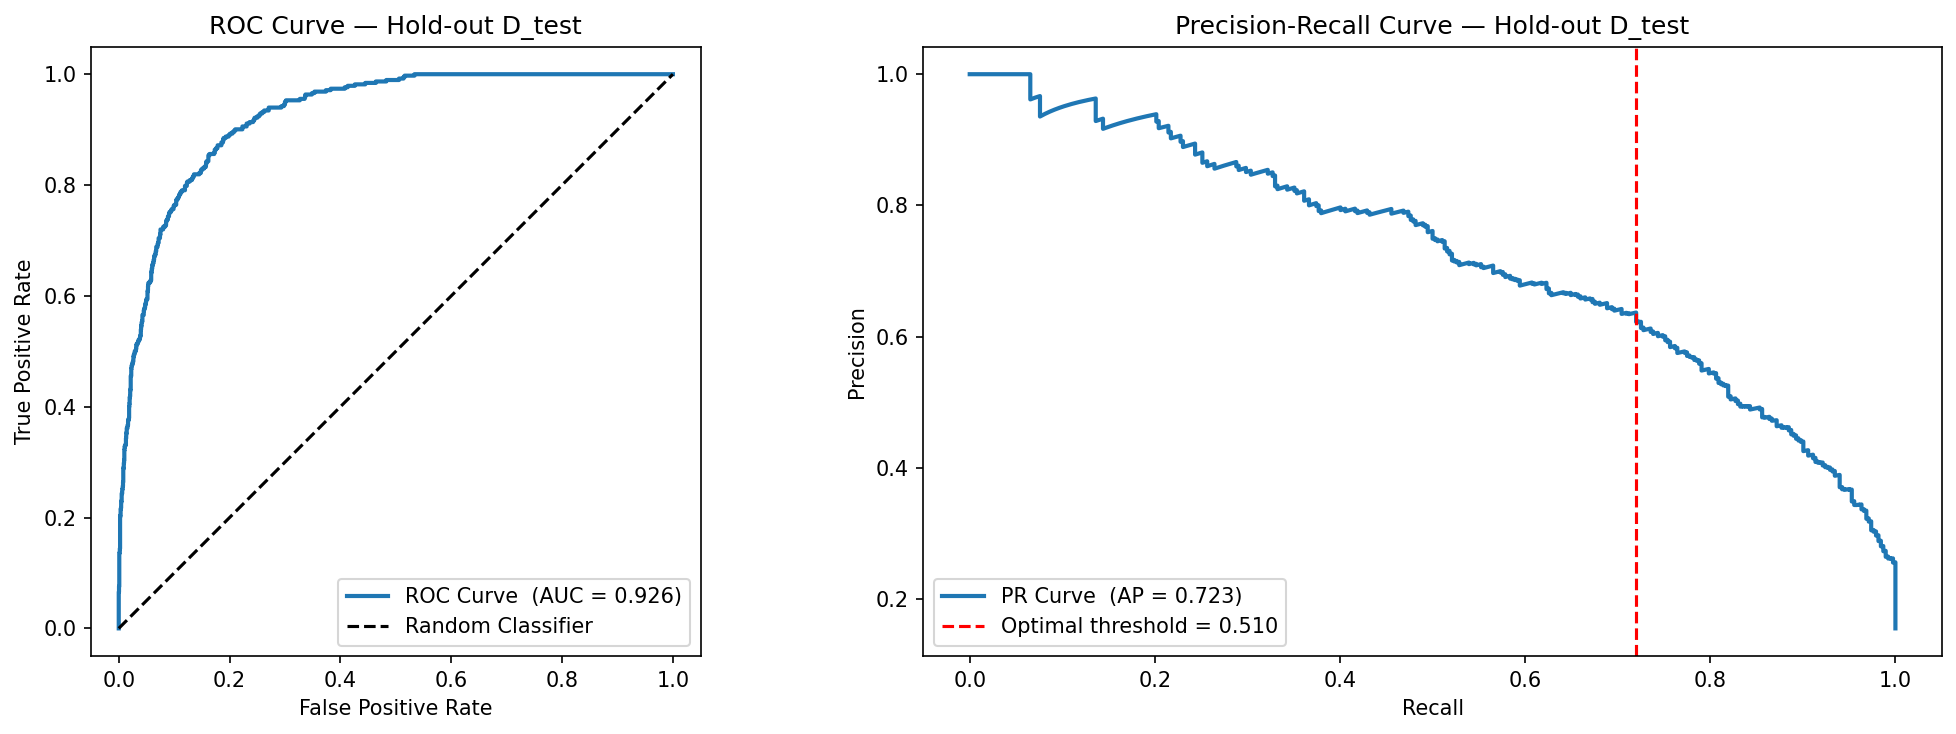
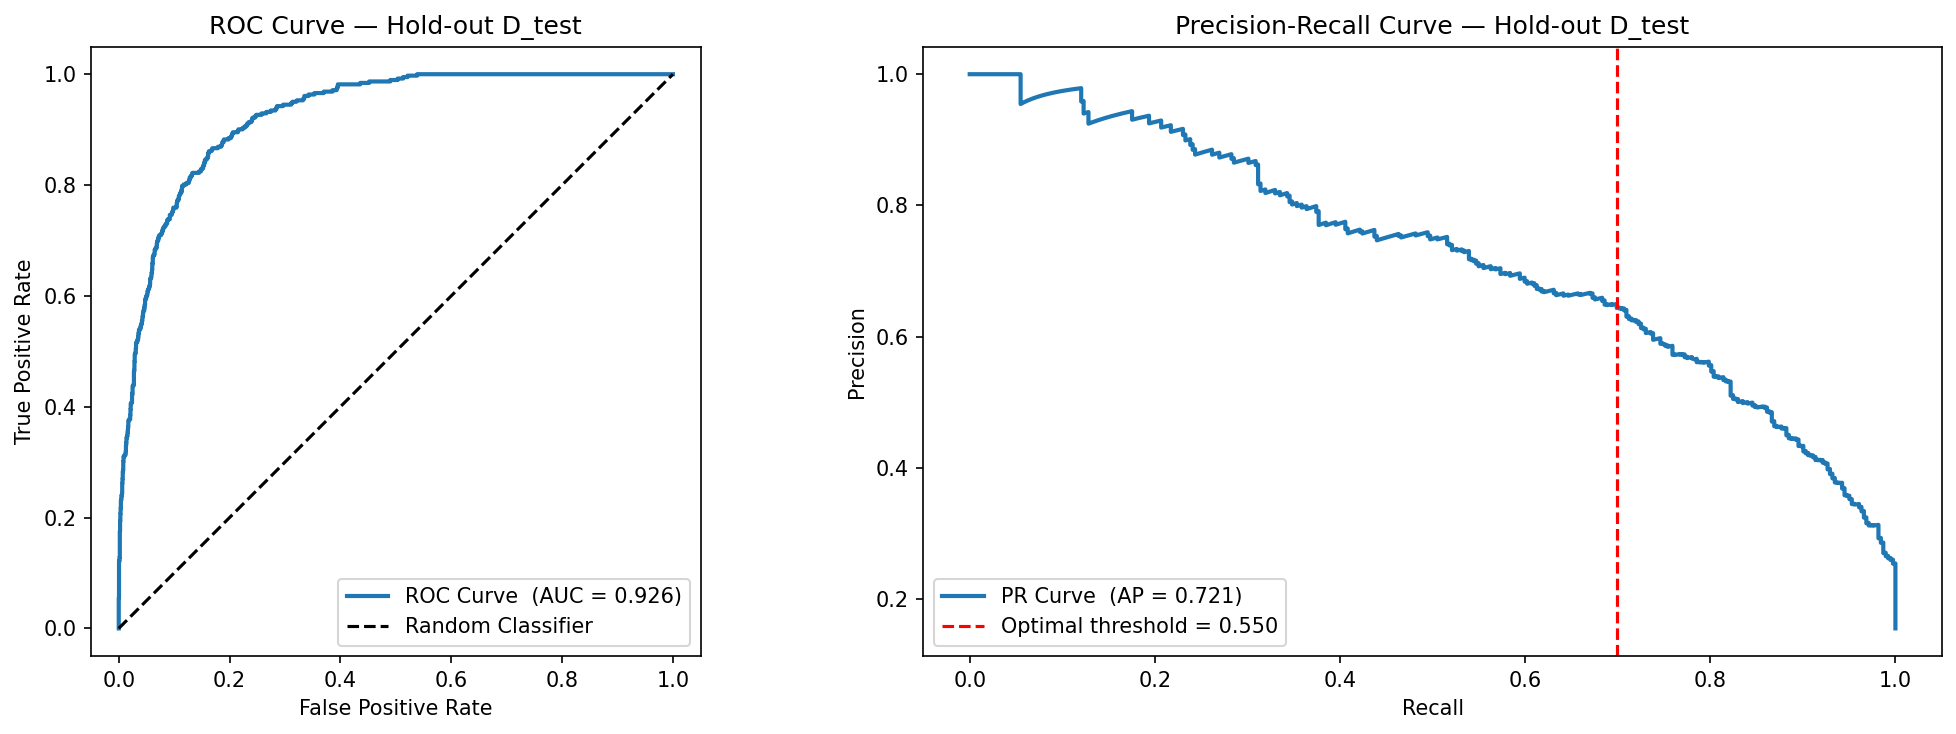
docs: sync README, CHANGELOG, and LaTeX with all post-audit changes
README: add figures/ to repo structure; update NB3 description and run table to mention LIME
CHANGELOG: add six new entries (14-19) covering figure generation, CV error bars, SHAP fix, LIME addition, .gitignore cleanup, and LIME leakage fix
LaTeX: add error bars note to fig_04 caption; add LIME paragraph to Model Explainability; mention LIME in abstract and Conclusions; add Ribeiro 2016 citation to refs.bib

diff --git a/CHANGELOG_AND_REFACTORING_REPORT.md b/CHANGELOG_AND_REFACTORING_REPORT.md
@@ -30,7 +30,7 @@ Data-Mining-ML-project/
 ├── jupyter/
 │   ├── 1_Exploratory_Data_Analysis.ipynb          # EDA + feature selection analysis
 │   ├── 2_Nested_CV_and_Strict_Pipelines.ipynb     # Model training, tuning, model persistence
-│   ├── 3_Evaluation_Ablation_and_XAI.ipynb        # Evaluation, ablation, ROC/PR, SHAP
+│   ├── 3_Evaluation_Ablation_and_XAI.ipynb        # Evaluation, ablation, ROC/PR, SHAP, LIME
 │   ├── 4_Class_Balancing_Experiments.ipynb        # SMOTE methodology experiments
 │   └── utils/
 │       └── lof_sampler.py                         # Shared LOF_Sampler class (NEW)
@@ -38,6 +38,9 @@ Data-Mining-ML-project/
 ├── models/
 │   ├── final_best_pipeline.pkl                    # Serialised champion pipeline (UPDATED)
 │   └── model_metadata.json                        # Champion model metadata (UPDATED)
+│
+├── figures/
+│   └── fig_01 … fig_08.png                        # Pre-generated report figures (150 dpi) (NEW)
 │
 └── 2_locked_test_data/
     ├── X_test_locked.csv                          # Locked hold-out features (UPDATED)
@@ -380,20 +383,22 @@ The original README contained a single-line description. It was replaced with a 
 ### `3_Evaluation_Ablation_and_XAI.ipynb`
 | Cell | Type | Purpose |
 |---|---|---|
-| 0 | Markdown | Objectives (updated to include both ablations and ROC/PR) |
+| 0 | Markdown | Objectives |
 | 1 | Code | Data load, D_train reconstruct, locked test load, LOF utility, model load |
 | 2 | Markdown | Ablation Section 1.1: LOF |
 | 3 | Code | LOF ablation — compare champion vs same pipeline without LOF |
-| 4 | Markdown | Ablation Section 1.2: Region *(NEW)* |
-| 5 | Code | Region ablation — compare 24-feature vs 25-feature pipeline *(NEW)* |
+| 4 | Markdown | Ablation Section 1.2: Region |
+| 5 | Code | Region ablation — compare 24-feature vs 25-feature pipeline |
 | 6 | Markdown | Final Test Set Evaluation |
 | 7 | Code | Unseal D_test, `champion_pipeline.predict`, confusion matrix, classification report |
-| 8 | Markdown | ROC / PR / Threshold intro *(NEW)* |
-| 9 | Code | ROC curve, PR curve, optimal threshold sweep + side-by-side plot *(NEW)* |
+| 8 | Markdown | ROC / PR / Threshold intro |
+| 9 | Code | ROC curve, PR curve, optimal threshold sweep + side-by-side plot |
 | 10 | Markdown | SHAP explanation |
 | 11 | Code | SHAP global: `summary_plot` (feature importance across D_test) |
-| 12 | Code | SHAP local: `waterfall` plots for FP and FN instances |
-| 13 | Markdown | Summary and Conclusions *(NEW)* |
+| 12 | Code | SHAP local: `waterfall` plots for TP, FP and FN instances |
+| 13 | Markdown | LIME intro |
+| 14 | Code | LIME local explanation for the False Positive instance |
+| 15 | Markdown | Summary and Conclusions |
 
 ---
 
@@ -427,6 +432,91 @@ class LOF_Sampler(BaseSampler):
 ```python
 %run utils/lof_sampler.py
 ```
+
+---
+
+### CHANGE 14 — Add Pearson heatmap to NB1; add `plt.savefig` to all figure cells; create `figures/` directory
+
+**Files created:** `figures/fig_01_class_dist.png` through `figures/fig_08_shap_waterfall.png`  
+**Files modified:** `jupyter/1_Exploratory_Data_Analysis.ipynb`, `jupyter/3_Evaluation_Ablation_and_XAI.ipynb`
+
+**What changed:**  
+The Pearson correlation heatmap was referenced in the LaTeX report (`fig:corr`) but did not exist in NB1. A new code cell was inserted to generate and save it. `plt.savefig()` calls were added to all seven other figure-producing cells across NB1 and NB3, and the `figures/` directory was created to collect all eight output PNGs at 150 dpi.
+
+**Reason:**  
+All figures referenced in the LaTeX report must be real, generated images that the author can upload to Overleaf. Without savefig calls, figures only display inline and cannot be exported programmatically.
+
+---
+
+### CHANGE 15 — Add CV scores bar chart with ±2 std deviation error bars to NB2 (Danilo Parisi, 03/06/2026)
+
+**Files modified:** `jupyter/2_Nested_CV_and_Strict_Pipelines.ipynb` — new cell at index 8 (updated)
+
+**What changed:**  
+The original static bar chart (using hardcoded values from `model_metadata.json`) was replaced by a dynamically computed chart that reads live fold scores (`rf_scores`, `svm_scores`, `xgb_scores`) and adds `yerr=cv_errors` error bars representing ±2 standard deviations across the five outer folds.
+
+**Scientific justification:**  
+Reporting only the mean Macro F1 of nested CV without variance understates the uncertainty in the estimate. Error bars allow a reader to visually assess whether differences between models are meaningful or within noise. This is standard practice in ML benchmarking papers.
+
+---
+
+### CHANGE 16 — Fix SHAP feature name mismatch in NB3 Cell 11 (Danilo Parisi, 03/06/2026)
+
+**Files modified:** `jupyter/3_Evaluation_Ablation_and_XAI.ipynb` — Cell 11
+
+**What changed:**  
+The SHAP `TreeExplainer` was previously passed a pandas DataFrame, which could trigger a feature-name mismatch error between the DataFrame's column names and the XGBoost model's internal feature names (set during training via the pipeline). The fix:
+1. Scales the test set to a raw NumPy array: `X_test_scaled = scaler.transform(X_test)`
+2. Passes the NumPy array to `shap.TreeExplainer`
+3. Manually re-attaches feature names: `shap_values.feature_names = list(X_test.columns)`
+
+This avoids the `ValueError` while preserving readable feature names in all SHAP plots.
+
+---
+
+### CHANGE 17 — Add LIME local explainability for False Positive analysis (Danilo Parisi, 03/06/2026)
+
+**Files modified:** `jupyter/3_Evaluation_Ablation_and_XAI.ipynb` — new Cells 13–15  
+**Files modified:** `requirements.txt` — added `lime==0.2.0.1`
+
+**What changed:**  
+A LIME (Local Interpretable Model-Agnostic Explanations) analysis block was added as Cells 13–15 of NB3. It explains the same False Positive instance already analysed by SHAP's waterfall plot, allowing a direct comparison between the two explainability frameworks. A wrapper function correctly bridges the fitted `StandardScaler` from the pipeline with LIME's tabular explainer.
+
+**Scientific value:**  
+LIME is model-agnostic and approximates the decision boundary locally with a linear model. When its feature attributions agree with SHAP's tree-exact values, this provides convergent validity for the explanation. Discrepancies reveal where SHAP's global approximation and LIME's local linear approximation diverge, which is itself informative about the model's complexity in that region of feature space.
+
+---
+
+### CHANGE 18 — Add `.gitignore`; untrack committed Jupyter checkpoint files
+
+**Files created:** `.gitignore`  
+**Files removed from tracking:** `jupyter/.ipynb_checkpoints/*.ipynb` (4 files)
+
+**What changed:**  
+Jupyter's `.ipynb_checkpoints/` folder (auto-generated auto-save artefacts) was accidentally committed. The four checkpoint files were removed from git tracking via `git rm --cached`. A `.gitignore` was created to permanently exclude checkpoints, Python cache, OS metadata, and IDE configuration files from future commits.
+
+**Why this matters:**  
+Checkpoint files are auto-generated, change on every save, and carry no useful history. Including them inflates the git diff on every commit and makes the repository harder to navigate.
+
+---
+
+### CHANGE 19 — Fix data leakage in LIME: use `X_train` as background distribution
+
+**Files modified:** `jupyter/3_Evaluation_Ablation_and_XAI.ipynb` — Cell 14
+
+**What changed:**
+```python
+# BEFORE (leakage)
+explainer_lime = lime.lime_tabular.LimeTabularExplainer(
+    training_data=X_test.values, ...)
+
+# AFTER (correct)
+explainer_lime = lime.lime_tabular.LimeTabularExplainer(
+    training_data=X_train.values, ...)
+```
+
+**Technical justification:**  
+LIME's `training_data` parameter is used to compute per-feature statistics (mean, standard deviation) for generating the local perturbations used to build the surrogate linear model. Passing `X_test.values` allowed the test set's marginal distributions to influence the explanation process — a form of information leakage. The correct value is `X_train.values`, which is already in scope from the D_train reconstruction at the top of NB3. This fix ensures that LIME's explanations are built entirely from training-set statistics, consistent with how the model itself was trained.
 
 ---
 

diff --git a/README.md b/README.md
@@ -31,7 +31,7 @@ Data-Mining-ML-project/
 ├── jupyter/
 │   ├── 1_Exploratory_Data_Analysis.ipynb          # EDA, chi-square, mutual information, LOF profiling
 │   ├── 2_Nested_CV_and_Strict_Pipelines.ipynb     # Model training: RF vs SVM vs XGBoost (Nested CV)
-│   ├── 3_Evaluation_Ablation_and_XAI.ipynb        # Final evaluation, ablation studies, ROC/PR, SHAP
+│   ├── 3_Evaluation_Ablation_and_XAI.ipynb        # Final evaluation, ablation studies, ROC/PR, SHAP, LIME
 │   ├── 4_Class_Balancing_Experiments.ipynb        # SMOTE ratio experiment (justifies sampling_strategy=0.7)
 │   └── utils/
 │       └── lof_sampler.py                         # Shared LOF_Sampler custom imbalanced-learn class
@@ -39,6 +39,9 @@ Data-Mining-ML-project/
 ├── models/
 │   ├── final_best_pipeline.pkl                    # Serialised champion XGBoost pipeline (joblib)
 │   └── model_metadata.json                        # Champion params, nested CV scores for all 3 models
+│
+├── figures/
+│   └── fig_01 … fig_08.png                        # Pre-generated report figures (150 dpi)
 │
 └── 2_locked_test_data/
     ├── X_test_locked.csv                          # Hold-out feature matrix (sealed by Notebook 2)
@@ -77,7 +80,7 @@ Notebooks **must be executed in order** (each notebook depends on outputs from t
 |---|---|---|---|
 | 1 | `1_Exploratory_Data_Analysis.ipynb` | EDA plots, chi-square table | ~2 min |
 | 2 | `2_Nested_CV_and_Strict_Pipelines.ipynb` | `models/`, `2_locked_test_data/` | ~15–20 min |
-| 3 | `3_Evaluation_Ablation_and_XAI.ipynb` | Evaluation plots, SHAP charts | ~5 min |
+| 3 | `3_Evaluation_Ablation_and_XAI.ipynb` | Evaluation plots, SHAP charts, LIME explanation | ~5 min |
 | 4 | `4_Class_Balancing_Experiments.ipynb` | SMOTE comparison chart | ~3 min |
 
 ### Launch Jupyter
